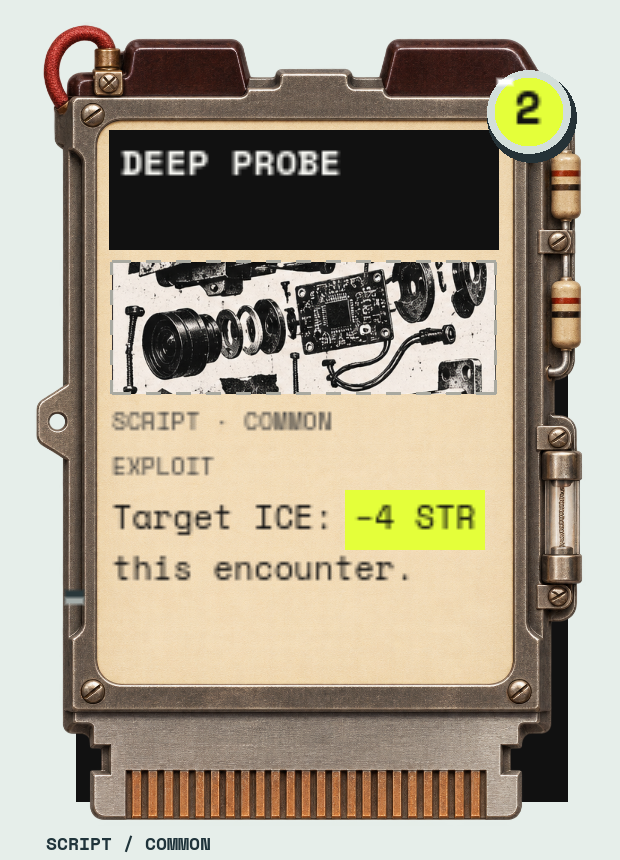
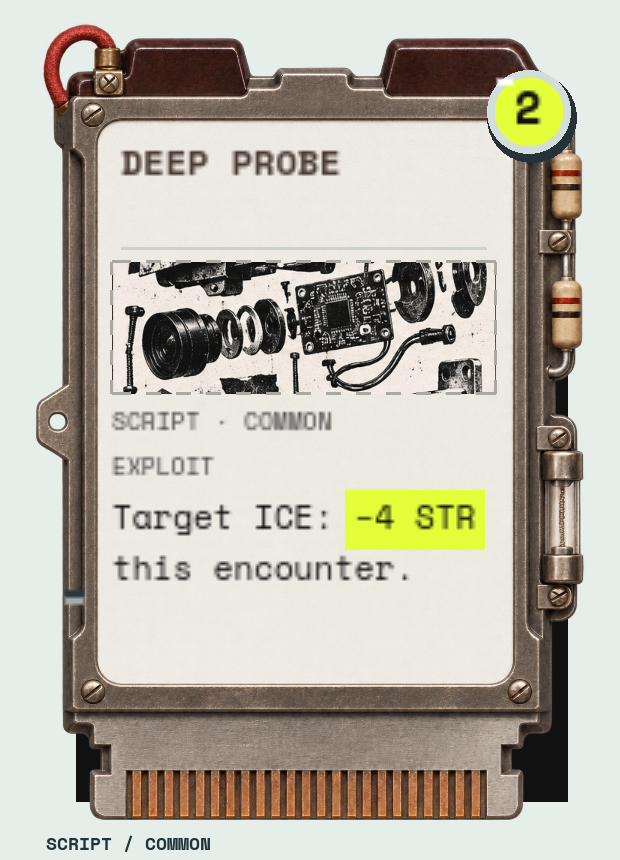
CARDS-001: Integrate dark printed titles with light type-specific cartridge faces

diff --git a/docs/REDLINE_DEVELOPMENT_LOG.md b/docs/REDLINE_DEVELOPMENT_LOG.md
@@ -4,18 +4,6 @@
 
 **LOG-001 (2026-11-16):** entries from 2026-11-08 to 2026-11-14 are in `REDLINE_DEVELOPMENT_LOG_ARCHIVE.md`, unchanged. Keep this file under about 60 KB (HANDOFF, "How we work" 6).
 
-## 2026-11-15 — HANDOFF-001 / REJECT-001: shared to-do file, working branch, design sync (Claude)
-
-**Designer decisions (2026-11-15):**
-- **HANDOFF-001:** Codex and Claude coordinate through `docs/HANDOFF.md`, a shared list of decided-but-unfinished work with owners and statuses. The repo is the source of truth; the Claude project holds copies. **One working branch: `codex/halcyon-playtest-stabilization`**; changes arrive as pull requests into it. Claude now has write access to the repository.
-- **REJECT-001:** REJECT ALL has **one DEADLOCK** (pool DEADLOCK · TRACE 3 · PULP 4, 2 slots), resolving the REEL-001 confusion. Recorded in `REDLINE_ICE_CORP1.md`; **build change not made** (listed for Codex in HANDOFF).
-- **VIRUS-001 confirmed:** WORM counters are spent to break; they don't spread. The "copy vs move" note under VECTOR-001 no longer applies.
-- **DSY-006 (end-of-run target only):** decks should be **30–35 cards by the end of LUCIDA**.
-
-**Docs added (Claude, written in the Panopticon project 2026-11-15):** `REDLINE_DECK_SYNERGY.md` v0.3 (DSY-001 to DSY-014, PROPOSED), `REDLINE_PACING.md` v0.2 (PACE-001 to PACE-010, PROPOSED), and copies of the designer's `ICE Rules Bible` and `Ice Passive Abilities` Claude Docs as `REDLINE_ICE_RULES_BIBLE.md` and `REDLINE_ICE_PASSIVES.md`. **Docs changed:** `REDLINE_ICE_CORP1.md` (REJECT-001), `REDLINE_PLAYTEST_CHECKLIST.md` v0.1.1 (G1 and G5 targets for 30–35 cards), `REPOSITORY_STRUCTURE.md` (new docs, HANDOFF, working branch).
-
-**Code changes:** none. **Tests run:** none (no Godot in Claude's environment). The proposals' numbers are working values, not tested.
-
 ## 2026-11-15 — DSY-001 to DSY-014 and PACE-001 to PACE-010 approved for the next build (Claude)
 
 **Designer decision:** "Approve everything as written", to be implemented in the next build. `REDLINE_DECK_SYNERGY.md` → v1.0 and `REDLINE_PACING.md` → v1.0, every decision marked **APPROVED 2026-11-15**. Numbers remain working values to tune in playtest. Optional and conditional items stay as written: DSY-001b (GHOST +1 DRAW) optional; PACE-003's BOOTING-on-turn-4 only if playtest 2 shows an Opening Node breach before turn 4; PACE-006's safety valves held in reserve.
@@ -525,3 +513,14 @@ GENERALIST also has two stalls, counted separately from deaths. Mean end decks G
 **Validation:** Godot 4.3 imports; 357 rules pass and 30-seed bot summaries match the pre-card baseline (GENERALIST/ECHO/RIOT/VECTOR clears 25/17/25/20, survivor VITAE 16.2/9.5/15.2/10.7). Nine UI scripts pass. Cartridge fixture: 612 checks / zero failures, including all 112 authored rule texts, the longest legal shared-tag compiled SCRIPT pair, actual rarity, illustration bounds and 6-/8-/16-card protrusion bounds. Existing native hand clicks, HOLD/READY RIG, reward, SCAN/CULL/ZEROED/TUMBLE and five-second reduced-motion response checks remain. Nine individual close-up PNGs plus six/eight-card encounter captures are in `docs/visual/fixtures/cards-001/` and the downloadable ZIP.
 
 **Review:** physical finish details and motif reuse are proposed art choices. Labels/costs remain live data; no gameplay is baked into textures. The revised PR #12 remains open against the shared game branch and awaits designer approval before merge. Audio/Windows export are outside this task. Asset provenance, guide, status and the shared HANDOFF are updated in place.
+
+
+## 2026-11-17 — CARDS-001: integrated light faces and printed titles (Codex)
+
+**Commit tag:** `cards-001-lightfaces`.
+
+**Designer feedback:** black title backgrounds and dark beige card faces do not fit the chassis. Removed the opaque black title strip; dark titles now print directly on each inset face with a restrained separator. Generated edits preserve the three carriers and change only the blank face: near-white ivory instruction stock for SCRIPT, cool pearl instrument plate for PROGRAM, pale celadon enamel for PROTOCOL. Hardware, protrusions, outside BW tab, rarity details, authored metadata and rules are unchanged. The corporate Bloatware treatment remains separate.
+
+**Validation:** 357 rules checks and 612 cartridge UI checks pass, including authored/compiled text fit and protruding bounds. Five Chrome stages pass; refreshed nine close-ups, six/eight-card captures and ten encounter review PNGs. The earlier dated whole entry was appended unchanged to the archive under LOG-001 to keep this live log below about 60 KB.
+
+**Review:** material tint and direct-print title treatment are proposed visual refinements. PR #12 is updated, not merged; designer approval of the integrated revision is still required under the existing merge instruction. No gameplay data, rarity odds or costs changed.

diff --git a/docs/REDLINE_DEVELOPMENT_LOG_ARCHIVE.md b/docs/REDLINE_DEVELOPMENT_LOG_ARCHIVE.md
@@ -1356,3 +1356,18 @@ Added CRED-cost display to card frames, revised the original BACKDOOR regression
 **Validation:** official Godot 4.3 Linux import and rules suite, **227 passed / 0 failed**; five virtual-display screenshot scripts include the new `shot_playtest2.gd` end-to-end UI scenario. That scenario selects BORROWED CREDENTIALS then its target, checks payment of exactly 1 BW and 8 CRED, breaks with HUSH, and presses the early-exit control to verify no reward. Large-hand checks now render the new dual-cost card as well. Added the scenario to the Actions workflow. Existing virtual-display V-Sync/resource-shutdown diagnostics are not Windows-runtime results.
 
 **Delivery:** push the reviewed changes to the stabilization branch with a lease; GitHub Actions verifies and exports a fresh Windows x86_64 package plus guide/checklist/checksums. The actual hosted result and artifact identify the exact release commit. No source merge to main or historical-branch consolidation is performed. Designer Windows playtest remains the next validation step.
+
+
+## 2026-11-15 — HANDOFF-001 / REJECT-001: shared to-do file, working branch, design sync (Claude)
+
+**Designer decisions (2026-11-15):**
+- **HANDOFF-001:** Codex and Claude coordinate through `docs/HANDOFF.md`, a shared list of decided-but-unfinished work with owners and statuses. The repo is the source of truth; the Claude project holds copies. **One working branch: `codex/halcyon-playtest-stabilization`**; changes arrive as pull requests into it. Claude now has write access to the repository.
+- **REJECT-001:** REJECT ALL has **one DEADLOCK** (pool DEADLOCK · TRACE 3 · PULP 4, 2 slots), resolving the REEL-001 confusion. Recorded in `REDLINE_ICE_CORP1.md`; **build change not made** (listed for Codex in HANDOFF).
+- **VIRUS-001 confirmed:** WORM counters are spent to break; they don't spread. The "copy vs move" note under VECTOR-001 no longer applies.
+- **DSY-006 (end-of-run target only):** decks should be **30–35 cards by the end of LUCIDA**.
+
+**Docs added (Claude, written in the Panopticon project 2026-11-15):** `REDLINE_DECK_SYNERGY.md` v0.3 (DSY-001 to DSY-014, PROPOSED), `REDLINE_PACING.md` v0.2 (PACE-001 to PACE-010, PROPOSED), and copies of the designer's `ICE Rules Bible` and `Ice Passive Abilities` Claude Docs as `REDLINE_ICE_RULES_BIBLE.md` and `REDLINE_ICE_PASSIVES.md`. **Docs changed:** `REDLINE_ICE_CORP1.md` (REJECT-001), `REDLINE_PLAYTEST_CHECKLIST.md` v0.1.1 (G1 and G5 targets for 30–35 cards), `REPOSITORY_STRUCTURE.md` (new docs, HANDOFF, working branch).
+
+**Code changes:** none. **Tests run:** none (no Godot in Claude's environment). The proposals' numbers are working values, not tested.
+
+<!-- LOG-001: oldest whole live-log entry appended on 2026-11-17. -->

diff --git a/docs/HANDOFF.md b/docs/HANDOFF.md
@@ -46,7 +46,7 @@ ZEROED-001, its RIOT cards, and TUMBLE-001 are built; see the tagged rows below.
 
 | IDs | Change | Commit reference |
 |---|---|---|
-| CARDS-001 | Heavy SCRIPT/PROGRAM/PROTOCOL slot-cartridge templates; external BW rating tabs; common/uncommon/rare finish details; protected protrusions; nine close-ups and six/eight-card captures. Types, rarity weights, costs and rules unchanged. | **BUILT** — `cards-001-cartridges` |
+| CARDS-001 | Heavy SCRIPT/PROGRAM/PROTOCOL slot-cartridge templates; external BW rating tabs; light type-specific faces and direct-print titles; common/uncommon/rare finish details; protected protrusions; nine close-ups and six/eight-card captures. Types, rarity weights, costs and rules unchanged. | **BUILT** — `cards-001-lightfaces` |
 | CHROME-001 | Refine the CAPTCHA encounter in the designer-selected Chrome Deco direction: readable real rules/cards, illustrated mascot shells, atrium, corporate escalation and native interaction feedback. Ten refreshed full-screen PNG samples; pearl-enamel ICE service plaques; type-specific heavy slot cartridges with outside BW tabs and restrained rarity finishes; prototype art and final fidelity await review. | **BUILT** — `chrome-001-enamel` (code `chrome-001-step5`) |
 | VIS-001 | The Friendly Lie encounter: fonts/skins, zine hand/HUD, mascot scans and moods, corporation break states, drag/motion/accessibility, seven PNG review fixtures. Visual only; ZEROED/TUMBLE integrated first. | **BUILT** — `vis-001g` (steps `vis-001a`–`vis-001g`) |
 | TUMBLE-001 | Remove broken TUMBLER subs and tumble immediately active replacements | **BUILT** — `zeroed-tumble-step3` |

diff --git a/docs/HALCYON_PLAYTEST_GUIDE.md b/docs/HALCYON_PLAYTEST_GUIDE.md
@@ -129,3 +129,5 @@ For the interaction sample, drag the installed FORTRESS Icepick onto AUTO-RENEW 
 Rustler card types now have distinct physical constructions: SCRIPT instructions in stamped steel/Bakelite with fuse/resistor hardware; PROGRAM devices in cast aluminum with vacuum tubes and metal-can transistors; PROTOCOL relay carriers in celadon enamel with terminal blocks/wiring. Contacts and insertion rails make them read as heavy plug-in cartridges. Paper labels/collage illustrations carry the live card rules. Bloatware remains the clean corporate app-card type.
 
 BW is printed on a raised rating tab at the upper-right chassis edge, largely outside the white label. Common cards have a plain single-notch finish; uncommon cards add two indexing notches and a small brass fitting; rares use three notches and fine double-metal detail. Full rarity labels remain visible, so color alone is not required. STARTER stays STARTER; rarity/reward odds and costs are unchanged. The new frames are used in the hand, HOLD/READY RIG choices, reward offers and inspection. Protruding parts are included in hit-testing and choice-scroll padding. The shallower hand fan makes room for the hardware without a hand-size cap.
+
+Card titles now print directly on each light face instead of a black strip: ivory instruction stock (SCRIPT), cool pearl instrument plate (PROGRAM), pale celadon enamel (PROTOCOL). The frames, external BW tabs and rarity details are unchanged.

diff --git a/docs/REDLINE_CURRENT_STATUS.md b/docs/REDLINE_CURRENT_STATUS.md
@@ -19,3 +19,5 @@ The latest CHROME-001 plaque revision replaces the black ICE rule panels with pe
 
 
 CARDS-001 refines Rustler cards into heavy slot cartridges with paper labels: SCRIPT uses Bakelite/stamped steel, PROGRAM cast aluminum and vacuum tubes, PROTOCOL enamel relay hardware. Exposed wiring, resistors, transistors, contact teeth and guide rails extend beyond the card face. The BW badge mounts on the upper chassis edge outside the white label. Authored rarity is unchanged: common/plain, uncommon two-notch/brass detail, rare three-notch/fine double-metal finish, with printed rarity text; STARTER keeps its label and plain finish. Bloatware stays corporate. Cards are 164×244 with protected component bounds; the hand/rack spacing and choice padding accommodate the frame. The new templates also appear in reward offers and inspection. Nine close-up PNGs and 6-/8-card encounter captures are in `docs/visual/fixtures/cards-001/`. No gameplay/card definitions changed; merge remains pending designer approval of PR #12.
+
+CARDS-001 face revision removes black title bars and dark beige labels. Titles print directly on light ivory SCRIPT stock, pearl PROGRAM plates and pale celadon PROTOCOL enamel, within the existing chassis. Updated samples supersede the darker faces; final approval/merge remains pending.

diff --git a/godot/assets/friendly_lie/cartridges/SOURCES.md b/godot/assets/friendly_lie/cartridges/SOURCES.md
@@ -7,3 +7,5 @@ Generated with OpenAI image generation on 2026-11-17 for the designer's request 
 - `protocol.png`: celadon-enamel relay carrier, terminal block, resistor bank and exposed wiring.
 
 The PNGs are empty template illustrations with transparency. Live Godot controls supply names, costs, type/tags, authored rarity, card rules and art. The authored types remain SCRIPT/PROGRAM/PROTOCOL/BLOATWARE; rarity data and reward odds are unchanged. Common/start-of-run carriers use plain finishes; uncommon/rare indexing and metal details are rendered by code, with full rarity labels for non-color identification. Bloatware retains its corporate app-card treatment. Material details and motif reuse remain prototype artwork pending designer review.
+
+The 2026-11-17 face revision uses generated edits of the same three frames to replace beige label material with light ivory SCRIPT stock, pearl PROGRAM plate and pale celadon PROTOCOL enamel. Titles are live dark printing with no black bar; no title text is baked into the assets.
